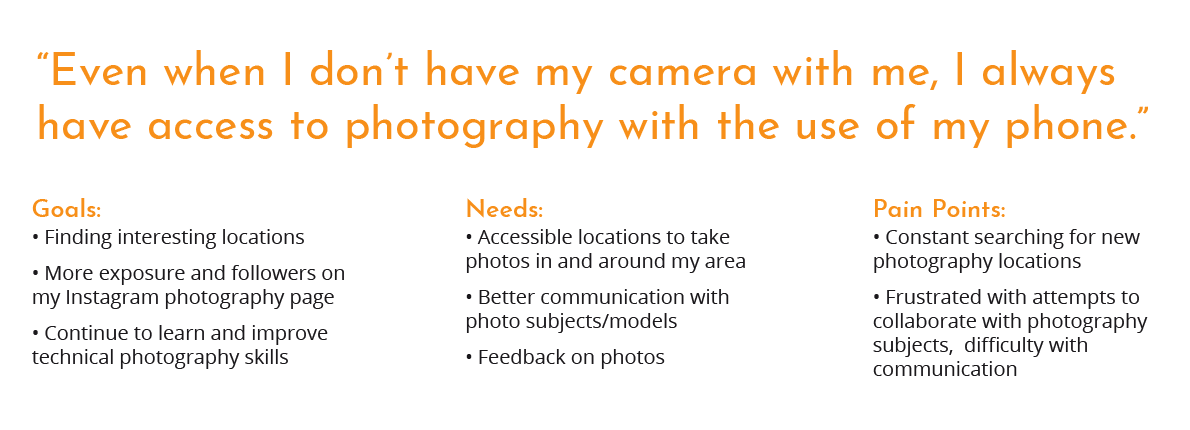
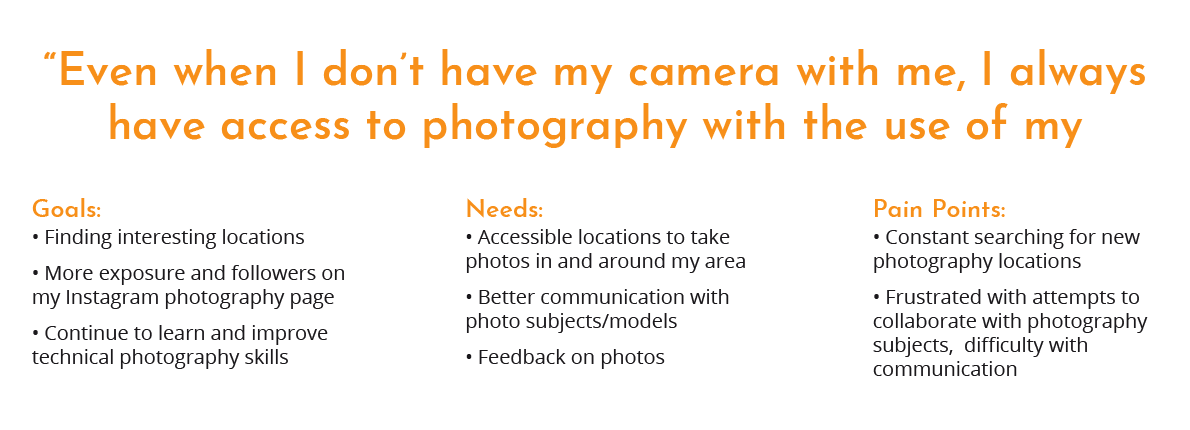
portfolio_spot
Changed font size, sizing.  Removed padding under user interview title.  Added images for personas

Changed region(s): [[0.0311, 0.2419, 0.9639, 0.3628], [0.0311, 0.1209, 0.9639, 0.2116]]

diff --git a/work_spot.html b/work_spot.html
@@ -116,19 +116,11 @@
           </div>
         </div>
         <!-- COMPETITIVE ANALYSIS START -->
-        <div class="row py-4">
-          <div class="col">
+        <div class="row">
+          <div class="col-12">
             <h2>Competitive Analysis</h2>
           </div>
-        </div>
-        <div class="row">
-          <div class="col-md-4">
-            <p>None have location details</p>
-            <p>Most do not suggest location</p>
-            <p>None of the competitors offer all of the features SPOT offers in one place.</p>
-            <p>ShotHotSpot and Instagram have filters but Photomapper and Google Maps do not.</p>
-          </div>
-          <div class="col">
+          <div class="col-12 col-md-8">
             <table class="table table-striped">
               <thead>
                 <tr>
@@ -205,75 +197,90 @@
                 </tr>
               </tbody>
             </table>
-          </div>
         </div>
+        <div class="col-12 col-md-4">
+          <p>None have location details</p>
+          <p>Most do not suggest location</p>
+          <p>None of the competitors offer all of the features SPOT offers in one place.</p>
+          <p>ShotHotSpot and Instagram have filters but Photomapper and Google Maps do not.</p>
+        </div>
+      </div>
         <!-- COMPETITIVE ANALYSIS END -->
 
 <!-- USER INTERVIEW START -->
 <div class="row py-4">
-  <div class="col d-flex align-items-center">
-    <div>
-    <h2 class="pb-4">User Interviews</h2>
-      <p><strong>Safety is important</strong></p>
-        <p><strong>Photographers keep
-          in mind:</strong>
-          <br>• Sun direction
-          <br> • Lighting
-          <br>• Weather</p>
-          <p><strong>Pre-planning is important:</strong><br>
-            Photographers do not want to
-            drive around hunting. They
-            want to focus on shooting at
-            interesting locations.</p>
-            <p><strong>Focus on ways to share</strong></p>
-            <p><strong>Want constructive feedback</strong></p>
-    </div>
+  <h2>User Interviews</h2>
+  <div class="row">
+    <div class="col-12">
+   <h3>What We Learned:</h3>
   </div>
+   <div class="col col-md-6">
+    <p><strong>Safety is important</strong></p>
+      <p><strong>Photographers keep
+        in mind:</strong>
+        <br>• Sun direction
+        <br> • Lighting
+        <br>• Weather</p>
+      </div>
+      <div class="col col-md-6">
+        <p><strong>Pre-planning is important:</strong><br>
+          Photographers do not want to
+          drive around hunting. They
+          want to focus on shooting at
+          interesting locations.</p>
+          <p><strong>Focus on ways to share</strong></p>
+          <p><strong>Want constructive feedback</strong></p>
+        </div>
+  </div>
+  <div class="row">
     <!-- NICHOLAS START -->
-    <div class="two col-lg-4 py-4 d-flex align-items-center p-4">
+    <div class="two col-12 col-sm-8 col-lg-4 py-4">
       <div>
       <blockquote>
-        <span class="leftq quotes">&ldquo;</span> "Geotagging is perfect it gives you the exact location of where
-        you are and if you liked that place you could go back to where you took it.”<span
+        <span class="leftq quotes">&ldquo;</span><p class="mb-0">Geotagging is perfect it gives you the exact location of where
+        you are and if you liked that place you could go back to where you took it.</p><span
           class="rightq quotes">&bdquo; </span>
       </blockquote>
-      <img src="assets/spot/user_interview_nick.jpg" class="img-fluid col-3 col-lg-6"
+      <img src="assets/spot/user_interview_nick.jpg" class="interview-img col-lg-6"
         alt="Interviewed User Nicholas">
       <h4>Nicholas Murcia</h4>
       <h6>SMC Photography Student</h6>
     </div>
     </div>
     <!-- NICHOLAS END -->
-  <div class="col-4  p-4">
-  <!-- MANDIE START -->
-  <div class="one py-4">
+    <!-- MANDIE START -->
+  <div class="one col-12 col-sm-8 col-lg-4 py-4 ml-auto">
+  <div>
     <blockquote>
-      <span class="leftq quotes">&ldquo;</span>"Comments on my photographs are how I know I’m doing something
-      good... It’s nice to see what about it you like.” <span class="rightq quotes">&bdquo; </span>
+      <span class="leftq quotes">&ldquo;</span><p class="mb-0">Comments on my photographs are how I know I’m doing something
+      good... It’s nice to see what about it you like.</p><span class="rightq quotes">&bdquo; </span>
     </blockquote>
-    <img src="assets/spot/user_interview_mandie.jpg" class="img-fluid col-3 col-lg-6"
+    <img src="assets/spot/user_interview_mandie.jpg" class="interview-img col-lg-6"
       alt="Interviewed User Mandie">
     <h4>Mandie Escobedo</h4>
     <h6>SMC Student Photographer</h6>
   </div>
+  </div>
   <!-- MANDIE END -->
     <!-- CLEO START -->
-    <div class="three py-4">
+    <div class="one col-12 col-sm-8 col-lg-4 py-4">
+    <div>
       <blockquote>
-        <span class="quotes leftq"> &ldquo;</span>I find the best places to take pictures through friends,
-        sometimes Instagram geotags, a lot of the times Google.<span class="rightq quotes">&bdquo; </span>
+        <span class="quotes leftq"> &ldquo;</span><p class="mb-0">I find the best places to take pictures through friends,
+        sometimes Instagram geotags, a lot of the times Google.</p><span class="rightq quotes">&bdquo; </span>
       </blockquote>
-      <img src="assets/spot/user_interview_cleo.jpg" class="img-fluid col-3 col-lg-6" alt="Interviewed User Cleo">
+      <img src="assets/spot/user_interview_cleo.jpg" class="interview-img col-lg-6" alt="Interviewed User Cleo">
       <h4>Cleo Tehrani</h4>
       <h6>SMC Student Photographer</h6>
     </div>
   </div>
-    <!-- CLEO START -->
+</div>
   </div>
+    <!-- CLEO START -->
 <!-- USER INTERVIEW END -->
 
         <!-- DOMAIN EXPERT INTERVIEW START -->
-        <div class="row py-4">
+        <div class="row">
           <div class="col">
             <h2>Domain Expert Interview</h2>
           </div>
@@ -281,8 +288,8 @@
         <div class="row">
           <div class="one col-12 col-lg-6 py-4">
             <blockquote>
-              <span class="leftq quotes">&ldquo;</span>"Being aware of industry trends is important, but staying true to
-              your style and approach is important too. Trends can be like a fad that later is not relevant.” <span
+              <span class="leftq quotes">&ldquo;</span><p class="mb-0">Being aware of industry trends is important, but staying true to
+              your style and approach is important too. Trends can be like a fad that later is not relevant.</p><span
                 class="rightq quotes">&bdquo; </span>
             </blockquote>
             <img src="assets/spot/domain_expert.jpg" class="img-fluid col-3 col-lg-6" alt="Domain Expert Josh Withers">
@@ -316,15 +323,19 @@
             <p>Mostly contained to his local area and has trouble finding new photography locations.</p>
             <p>Dan posts on Instagram and gets feedback through the comments.</p>
           </div>
-          <div class="col-12 col-lg-6 p-0">
-            <img src="assets/spot/persona_spot_dan_1.png" class="img-fluid"
+          <div class="col-12 py-4">
+            <img src="assets/spot/persona_spot_dan_1.png" class="img-fluid col-12 col-lg-6 m-0 p-0"
         alt="User Persona">
-          </div>
-          <div class="col-12 col-lg-6 p-0">
-            <img src="assets/spot/persona_spot_dan_2.png" class="img-fluid"
+            <img src="assets/spot/persona_spot_dan_2.png" class="img-fluid col-12 col-lg-6 m-0 p-0"
             alt="User Persona">
           </div>
-        </div>
+         <div class="col-12 py-4 d-lg-flex">
+          <img src="assets/spot/persona_spot_emma_1.png" class="img-fluid col-12 col-lg-6 m-0 p-0 order-lg-last"
+          alt="User Persona">
+            <img src="assets/spot/persona_spot_emma_2.png" class="img-fluid col-12 col-lg-6 m-0 p-0"
+        alt="User Persona">
+          </div>
+          </div>
         <!-- PERSONA END -->
       </div>
 

diff --git a/main.css b/main.css
@@ -1,5 +1,33 @@
+@import url('https://fonts.googleapis.com/css2?family=Josefin+Sans:wght@500;700&display=swap');
+@import url('https://fonts.googleapis.com/css2?family=Open+Sans:wght@400;600&display=swap');
+
+body{
+  color: #1A181B;
+}
+
+.h2, h2 {
+  font-family: 'Josefin Sans', sans-serif;
+  font-weight: 500;
+  font-size: 2.5rem;
+}
+
+.h3, h3{
+  font-family: 'Open Sans', sans-serif;
+  font-weight: 600;
+  font-size: 1.5rem;
+}
+
+p{
+  font-family: 'Open Sans', sans-serif;
+}
+
 /* ----- WORK START ----- */
 /* COMPETITIVE ANALYISIS START */
+.table {
+  color: #1A181B;
+  font-family: 'Josefin Sans', sans-serif;
+}
+
 .table td, .table th {
     padding: .75rem;
     vertical-align: middle;
@@ -73,6 +101,11 @@ blockquote:after {
 img{
   float:left;
   margin-right: 20px;
+}
+
+.interview-img{
+  width: 200px;
+  height: auto;
 }
     
 /* USER INTERVIEWS END */
